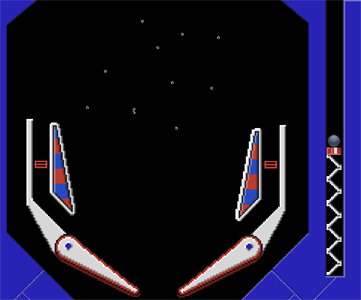
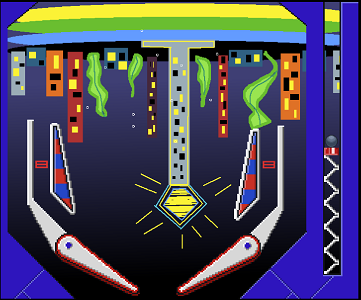
add atlantis top and bottom backgrounds

diff --git a/js/ImageLoading.js b/js/ImageLoading.js
@@ -298,6 +298,8 @@ function loadImages() {
 
         //Aquarium Table Sprites
         {imgName: "small_bubble", theFile: "tables/small_bubble.png"},
+        {imgName: "atlantis_bottom_bg", theFile: "tables/atlantis_bottom.png"},
+        {imgName: "atlantis_top_bg", theFile: "tables/atlantis_top.png"},
 
         
     ];
